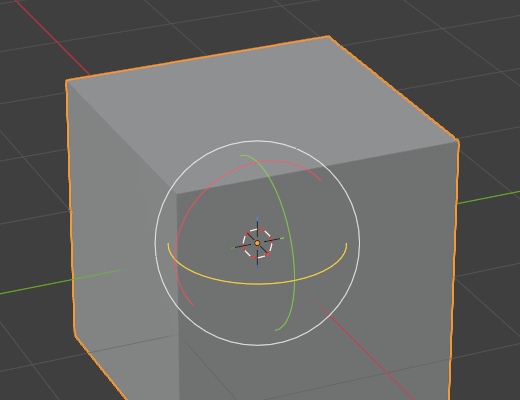
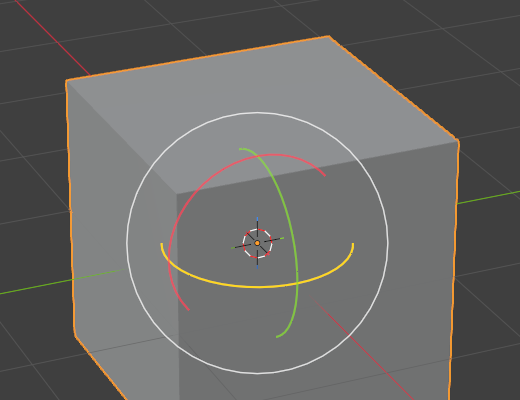
Match the native gizmo's line weight and steady the plane handles
Two problems with the rebuilt gizmo.

The handles looked far thinner than Blender's, to the point of being hard
to see and hit. Gizmo.line_width is a raw pixel count and does not follow
the interface scale, while Blender's own gizmo lines do, so a fixed value
looks about right at 1x and hairline-thin on a HiDPI display -- which is
where the report came from. Line weight is now scaled by the UI scale at
draw time, and the axis, dial and ring weights plus the handle lengths and
the rotation gizmo's outer ring were calibrated against the native gizmo
at both 1x and 2x interface scale.

The move and scale plane handles drifted and popped about while orbiting.
Their offset was derived from a world-per-pixel estimate built from a
projection round-trip, and measuring it across an orbit showed it wobbling
by around 10% frame to frame while the view distance stayed fixed at
18.3880, so the jitter was entirely self-inflicted. They now use
matrix_offset with use_draw_offset_scale and let Blender scale the offset,
which is the mechanism the native gizmo uses for the same handles. That
removes the estimate from the drawing path altogether, so it is deleted.

Verified against Blender 5.1.2: both regression suites pass, and the
rotate and move gizmos were compared against native captures at matching
view and interface scale.

diff --git a/gizmo.py b/gizmo.py
@@ -20,10 +20,6 @@ stock gizmo straight back.
 
 import bpy
 from bpy.types import GizmoGroup
-from bpy_extras.view3d_utils import (
-    location_3d_to_region_2d,
-    region_2d_to_location_3d,
-)
 from mathutils import Matrix, Vector
 
 from . import state
@@ -40,12 +36,27 @@ _suppressed_for = None
 #: Handle sizes, in gizmo units. Measured against the native gizmo on screen:
 #: each primitive type has its own scale convention, so these are calibrated
 #: rather than derived.
-AXIS_SCALE = 0.41
+AXIS_SCALE = 0.44
 PLANE_SCALE = 0.028
-PLANE_OFFSET = 0.42
-CENTRE_SCALE = 0.11
-DIAL_SCALE = 0.41
-VIEW_DIAL_SCALE = 0.47
+CENTRE_SCALE = 0.14
+DIAL_SCALE = 0.44
+VIEW_DIAL_SCALE = 0.60
+
+#: How far out the plane handles sit, as a fraction of the axis length.
+PLANE_OFFSET_FRACTION = 0.4
+#: The same offset expressed in the plane gizmo's own scaled units, which is
+#: what ``matrix_offset`` takes once ``use_draw_offset_scale`` is on.
+PLANE_OFFSET_UNITS = PLANE_OFFSET_FRACTION * AXIS_SCALE / PLANE_SCALE
+
+#: Line weights, in pixels at a UI scale of 1. These are multiplied by the UI
+#: scale at draw time: ``Gizmo.line_width`` is a raw pixel count, while
+#: Blender's own gizmo lines scale with the interface, so a fixed value looks
+#: right at 1x and far too thin on a HiDPI display.
+AXIS_LINE_WIDTH = 1.35
+DIAL_LINE_WIDTH = 1.35
+RING_LINE_WIDTH = 1.35
+#: The view-aligned outer ring is a thin outline in Blender, not a fat dial.
+VIEW_RING_LINE_WIDTH = 0.9
 
 ALPHA = 0.7
 ALPHA_HIGHLIGHT = 1.0
@@ -193,20 +204,6 @@ def orientation_matrix(context, orient_type):
     return Matrix.Identity(3)
 
 
-def world_per_pixel(region, rv3d, location):
-    """World units covered by one screen pixel at ``location``."""
-    screen = location_3d_to_region_2d(region, rv3d, location)
-    if screen is None:
-        return None
-    near = region_2d_to_location_3d(region, rv3d, screen, location)
-    far = region_2d_to_location_3d(
-        region, rv3d, screen + Vector((1.0, 0.0)), location
-    )
-    if near is None or far is None:
-        return None
-    return (far - near).length
-
-
 def transform_in_progress(context):
     """True while a ``TRANSFORM_OT_*`` modal operator is running."""
     window = context.window
@@ -304,6 +301,16 @@ def _aim(direction):
     return direction.to_track_quat('Z', 'Y').to_matrix().to_4x4()
 
 
+def _basis(x_axis, y_axis, z_axis, translation):
+    """Matrix whose columns are the given axes, positioned at ``translation``."""
+    return Matrix((
+        (x_axis.x, y_axis.x, z_axis.x, translation.x),
+        (x_axis.y, y_axis.y, z_axis.y, translation.y),
+        (x_axis.z, y_axis.z, z_axis.z, translation.z),
+        (0.0, 0.0, 0.0, 1.0),
+    ))
+
+
 # ---------------------------------------------------------------------------
 # Gizmo group
 # ---------------------------------------------------------------------------
@@ -363,6 +370,12 @@ class MGB_GGT_transform(GizmoGroup):
             for slot, (u, v, _normal) in enumerate(PLANES):
                 gz = self.gizmos.new("GIZMO_GT_primitive_3d")
                 gz.draw_style = 'PLANE'
+                # Let Blender scale the offset along with the gizmo, so the
+                # handle keeps a fixed screen offset from the pivot.
+                gz.use_draw_offset_scale = True
+                gz.matrix_offset = Matrix.Translation(
+                    (PLANE_OFFSET_UNITS, PLANE_OFFSET_UNITS, 0.0)
+                )
                 constraint = [False, False, False]
                 constraint[u] = constraint[v] = True
                 self._add(gz, (kind, 'plane', slot), operator, tuple(constraint))
@@ -435,10 +448,6 @@ class MGB_GGT_transform(GizmoGroup):
         if pivot is None:
             self._hide_all()
             return
-        unit = world_per_pixel(region, rv3d, pivot)
-        if not unit:
-            self._hide_all()
-            return
 
         orient_type = scene_orient_type(context)
         self._sync_orient(orient_type)
@@ -447,9 +456,10 @@ class MGB_GGT_transform(GizmoGroup):
         axes = [matrix.col[i].normalized() for i in range(3)]
         colors = axis_colors(context)
 
-        radius = context.preferences.view.gizmo_size * (
-            context.preferences.system.ui_scale or 1.0
-        ) * unit
+        # Gizmo.line_width is a raw pixel count and does not follow the
+        # interface scale the way Blender's own gizmo lines do, so scale it here
+        # or the handles come out hairline-thin on a HiDPI display.
+        ui_scale = context.preferences.system.ui_scale or 1.0
 
         modes = active_modes(context)
         # Hide everything mid-transform, unless one of our own handles is
@@ -472,26 +482,32 @@ class MGB_GGT_transform(GizmoGroup):
             if role == 'axis':
                 gz.matrix_basis = translation @ _aim(axes[index])
                 gz.scale_basis = AXIS_SCALE
+                gz.line_width = AXIS_LINE_WIDTH * ui_scale
                 base = colors[index]
             elif role == 'plane':
                 u, v, normal = PLANES[index]
-                offset = (axes[u] + axes[v]) * (PLANE_OFFSET * radius)
-                gz.matrix_basis = (
-                    Matrix.Translation(pivot + offset) @ _aim(axes[normal])
-                )
+                # Basis columns are (u, v, normal), so the handle's local X and
+                # Y are the two axes of its plane and matrix_offset can push it
+                # out along both. Blender scales that offset itself, which keeps
+                # it rock steady while orbiting -- deriving the offset from a
+                # world-per-pixel estimate wobbled by around 10% per frame.
+                gz.matrix_basis = _basis(axes[u], axes[v], axes[normal], pivot)
                 gz.scale_basis = PLANE_SCALE
                 base = colors[normal]
             elif role == 'dial':
                 gz.matrix_basis = translation @ _aim(axes[index])
                 gz.scale_basis = DIAL_SCALE
+                gz.line_width = DIAL_LINE_WIDTH * ui_scale
                 base = colors[index]
             elif role == 'view':
                 gz.matrix_basis = translation @ view_rotation
                 gz.scale_basis = VIEW_DIAL_SCALE
+                gz.line_width = VIEW_RING_LINE_WIDTH * ui_scale
                 base = (1.0, 1.0, 1.0)
             else:  # centre
                 gz.matrix_basis = translation @ view_rotation
                 gz.scale_basis = CENTRE_SCALE
+                gz.line_width = RING_LINE_WIDTH * ui_scale
                 base = (1.0, 1.0, 1.0)
 
             is_last = key == highlight

diff --git a/CHANGELOG.md b/CHANGELOG.md
@@ -3,6 +3,23 @@
 All notable changes to this project are documented here. This project follows
 [Semantic Versioning](https://semver.org/spec/v2.0.0.html).
 
+## [1.2.1] - 2026-08-11
+
+### Fixed
+
+- Handles were drawn far too thin, especially on HiDPI displays.
+  ``Gizmo.line_width`` is a raw pixel count and does not follow the interface
+  scale the way Blender's own gizmo lines do, so the line weight is now scaled
+  by the UI scale at draw time. Axis, dial and ring weights were calibrated
+  against the native gizmo at both 1x and 2x interface scale.
+- Handle lengths and the rotation gizmo's outer ring were resized to match the
+  native gizmo more closely.
+- The move and scale plane handles drifted and popped about while orbiting.
+  Their offset was derived from a world-per-pixel estimate that wobbled by
+  around 10% from frame to frame; they now use ``matrix_offset`` with
+  ``use_draw_offset_scale``, letting Blender scale the offset itself, which is
+  the mechanism the native gizmo uses.
+
 ## [1.2.0] - 2026-08-11
 
 ### Changed
